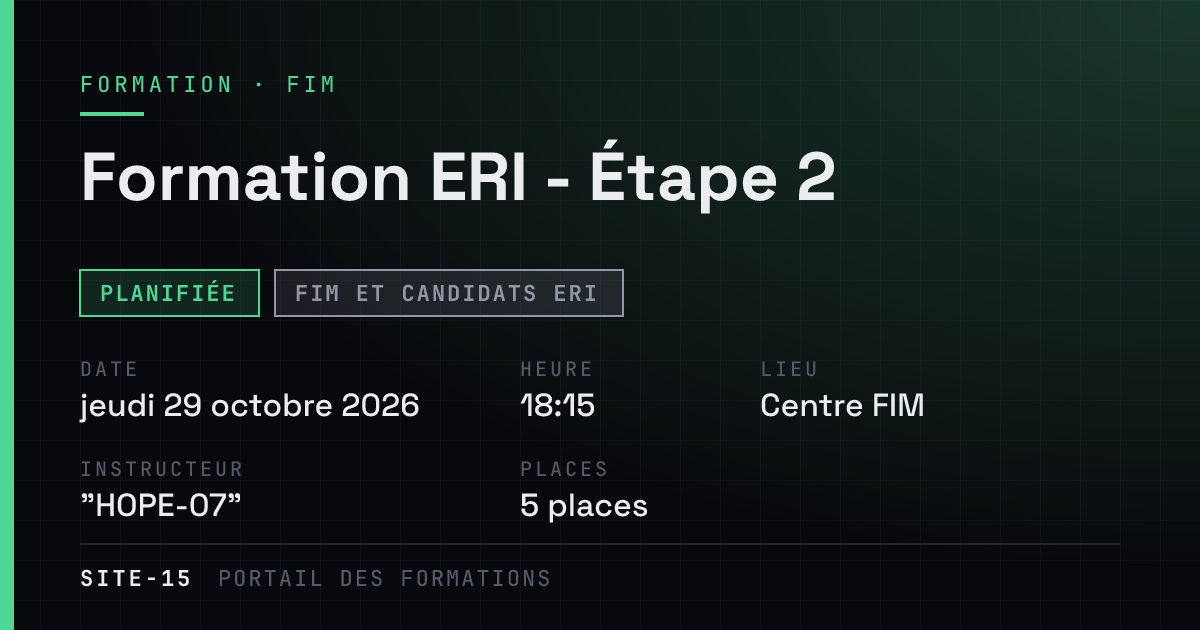
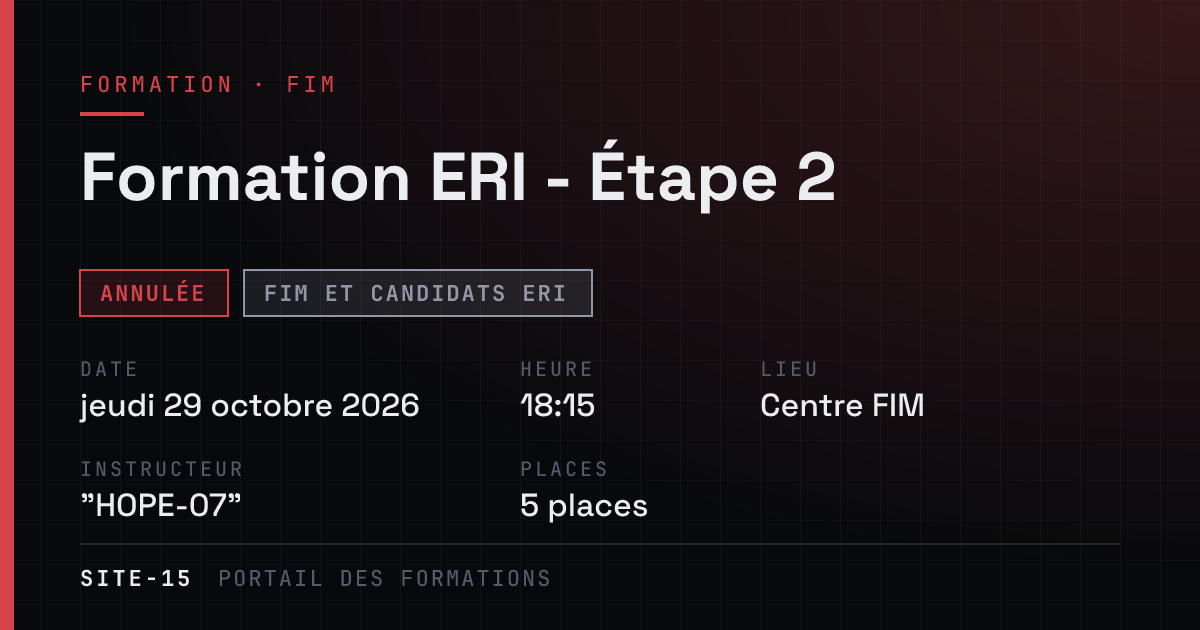
Aperçus Discord : 2 fichiers mis à jour (bot)

diff --git a/f/HcjEUhG6KSCix6krN3Rx/index.html b/f/HcjEUhG6KSCix6krN3Rx/index.html
@@ -1,19 +1,18 @@
 <!doctype html><html lang="fr"><head><meta charset="utf-8">
-<title>Formation ERI - Étape 2</title>
+<title>[ANNULÉE] Formation ERI - Étape 2</title>
 <meta property="og:type" content="website">
 <meta property="og:site_name" content="Site-15 · Portail des formations">
-<meta property="og:title" content="Formation ERI - Étape 2">
+<meta property="og:title" content="[ANNULÉE] Formation ERI - Étape 2">
 <meta property="og:description" content="📅 jeudi 29 octobre 2026 à 18:15 · 📍 Centre FIM
-- Théorique ERI: 1h30 -&gt; 1h20 Théorique - 10min Questions - Pratique CQB &amp; CQC: 1h - CQB de Démo: 30min - Test d&#39;Aptitude Physique
-➤ Inscription sur le portail des formations">
-<meta property="og:image" content="https://voidline-studio.com/f/HcjEUhG6KSCix6krN3Rx/card.png?v=34aa9661ff">
+- Théorique ERI: 1h30 -&gt; 1h20 Théorique - 10min Questions - Pratique CQB &amp; CQC: 1h - CQB de Démo: 30min - Test d&#39;Aptitude Physique">
+<meta property="og:image" content="https://voidline-studio.com/f/HcjEUhG6KSCix6krN3Rx/card.png?v=93173473c9">
 <meta property="og:image:width" content="1200">
 <meta property="og:image:height" content="630">
 <meta name="twitter:card" content="summary_large_image">
-<meta name="twitter:image" content="https://voidline-studio.com/f/HcjEUhG6KSCix6krN3Rx/card.png?v=34aa9661ff">
+<meta name="twitter:image" content="https://voidline-studio.com/f/HcjEUhG6KSCix6krN3Rx/card.png?v=93173473c9">
 <link rel="alternate" type="application/json+oembed" href="https://voidline-studio.com/f/HcjEUhG6KSCix6krN3Rx/oembed.json">
-<meta name="theme-color" content="#4FD895">
+<meta name="theme-color" content="#D8434A">
 <meta http-equiv="refresh" content="0; url=https://voidline-studio.com/rp/?formation=HcjEUhG6KSCix6krN3Rx">
 </head><body style="background:#08090C;color:#ECEDF1;font-family:sans-serif;padding:24px;">
-<p>Formation ERI - Étape 2</p><p><a style="color:#6E76FF" href="https://voidline-studio.com/rp/?formation=HcjEUhG6KSCix6krN3Rx">Ouvrir la formation sur le portail</a></p>
+<p>[ANNULÉE] Formation ERI - Étape 2</p><p><a style="color:#6E76FF" href="https://voidline-studio.com/rp/?formation=HcjEUhG6KSCix6krN3Rx">Ouvrir la formation sur le portail</a></p>
 </body></html>
